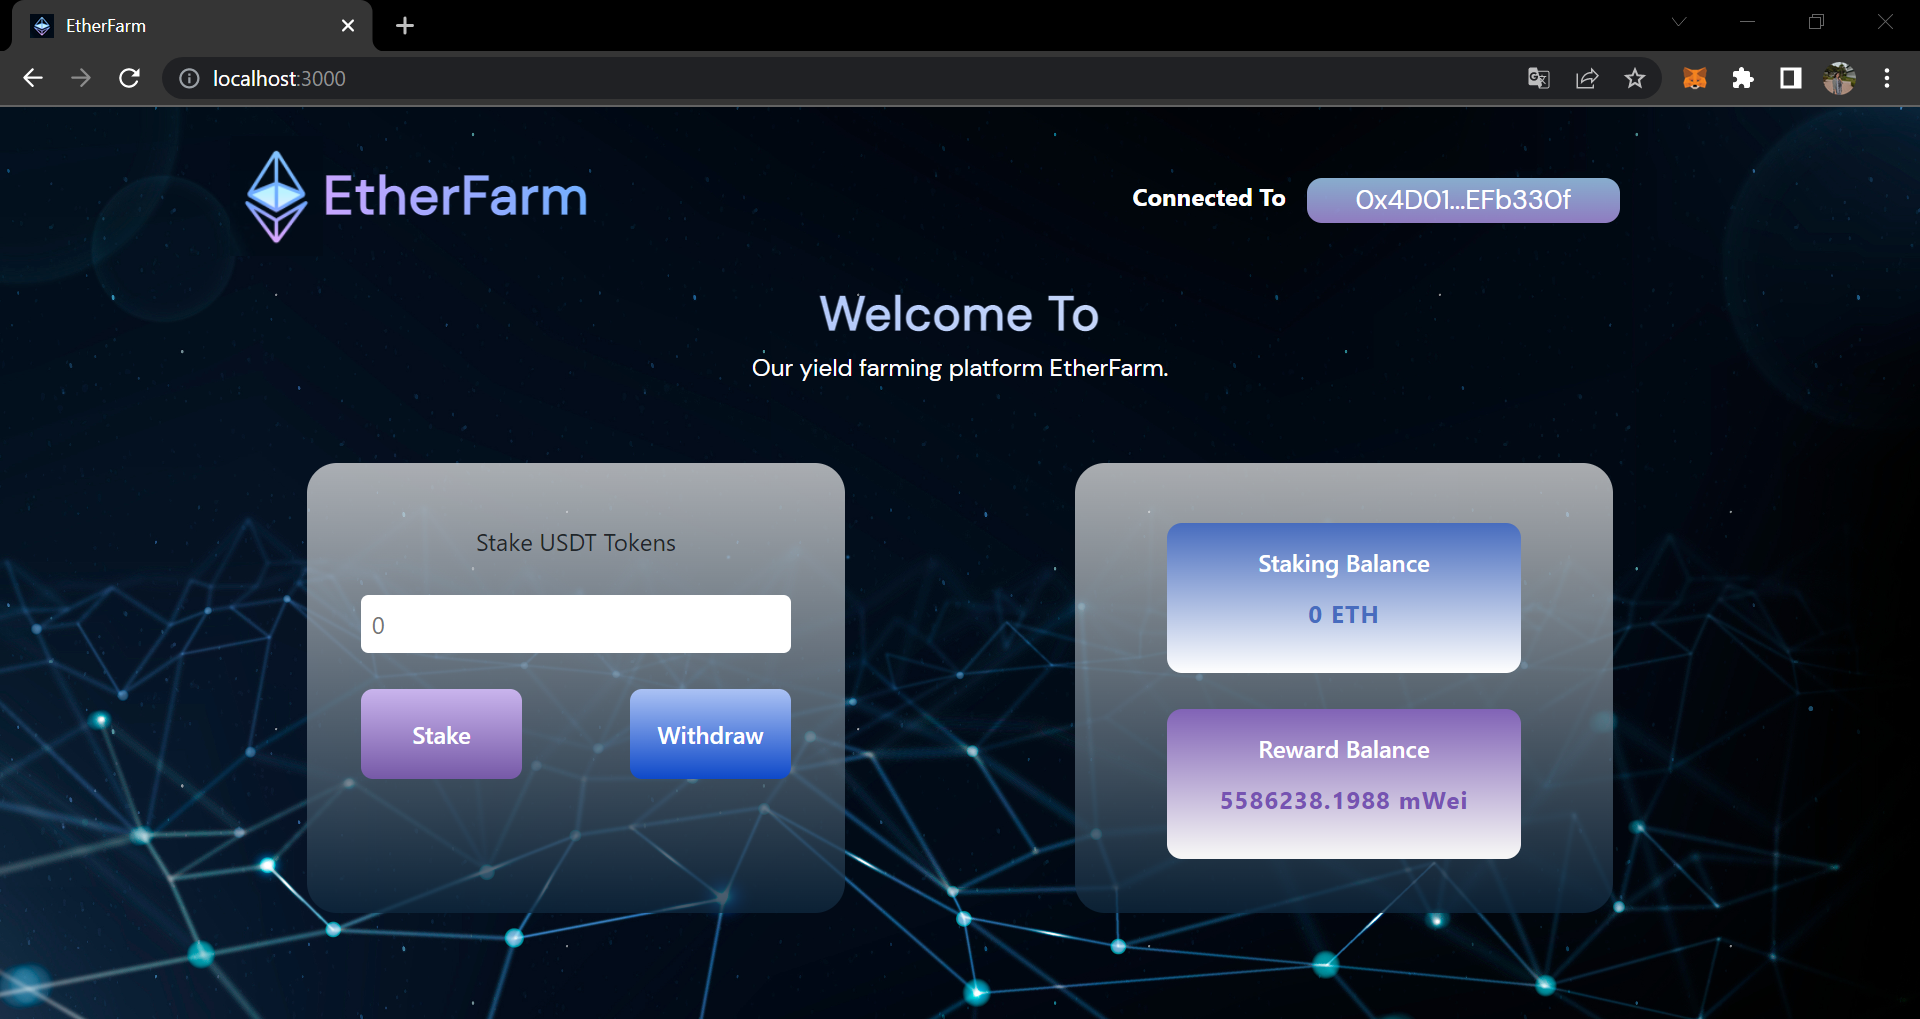
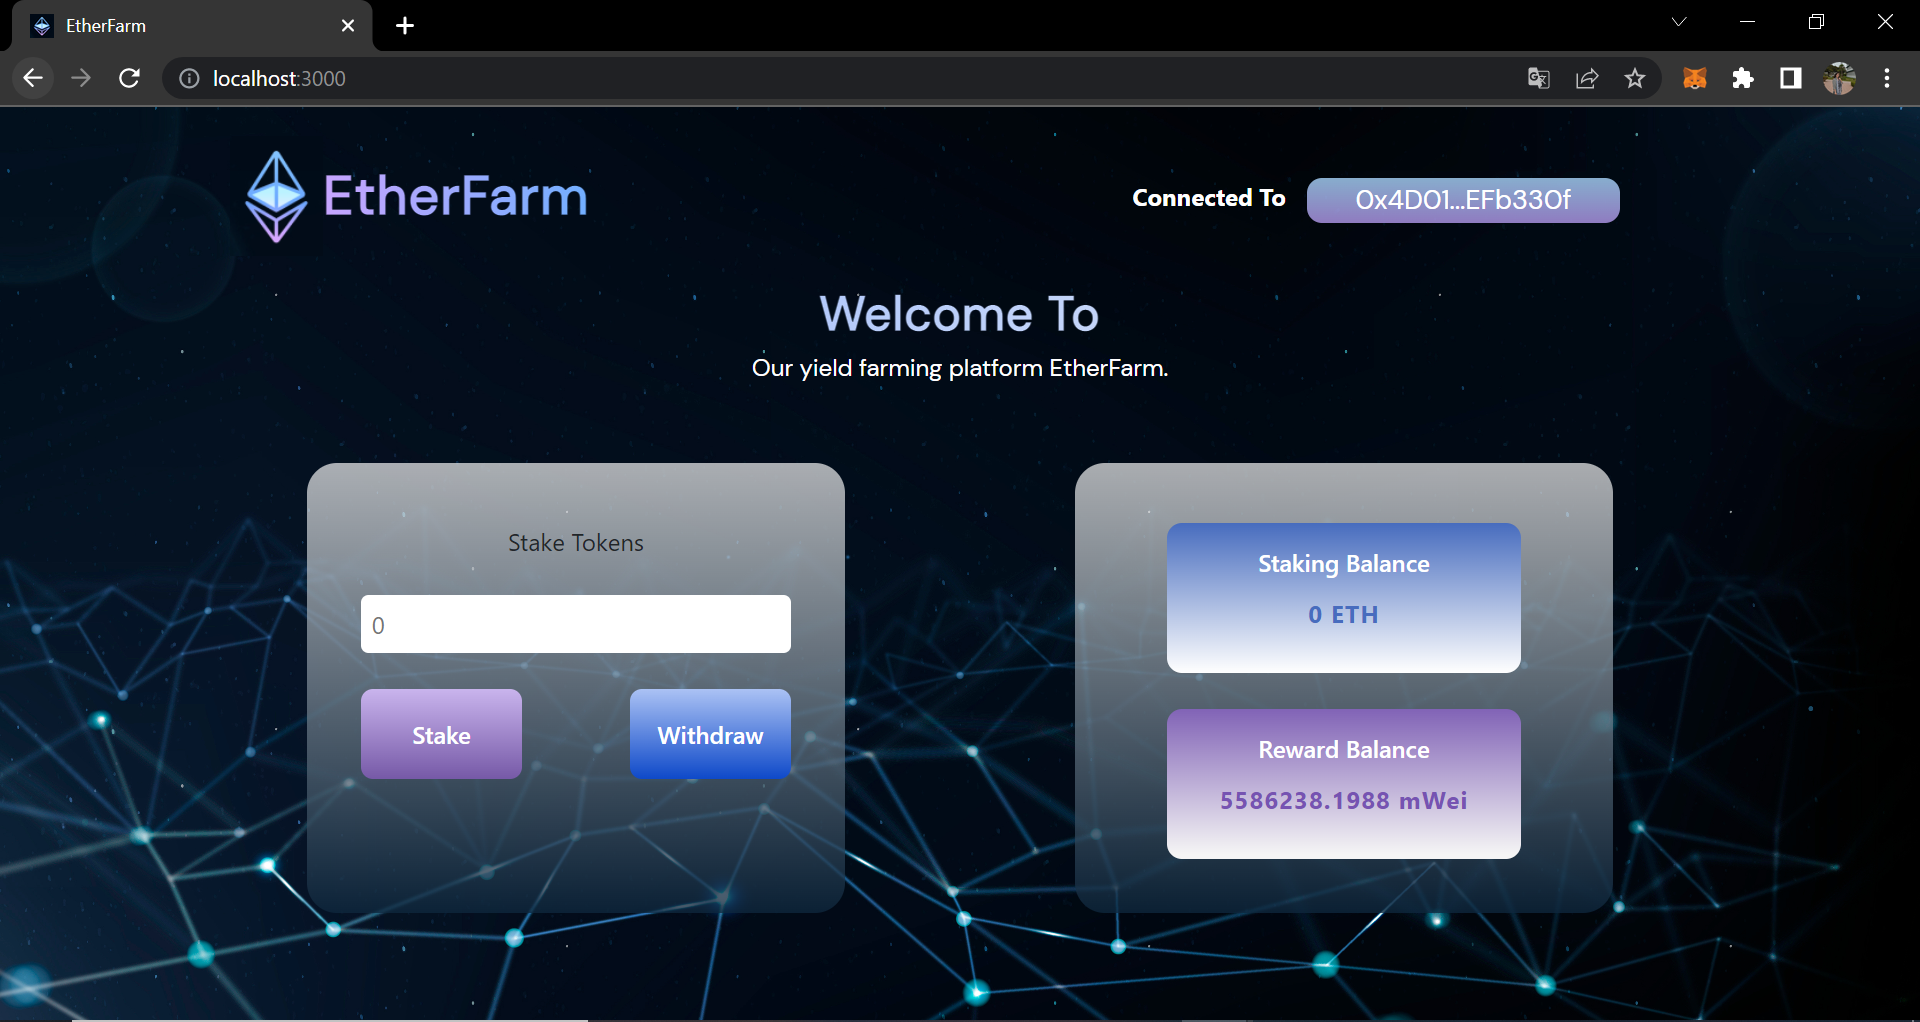
add app capture

diff --git a/src/components/Main.js b/src/components/Main.js
@@ -13,7 +13,7 @@ const Main = (props) => {
 
                 <div className="card card-main">
 
-                    <span >Stake USDT Tokens </span>
+                    <span >Stake Tokens </span>
                     <br />
                     {/* <span>My Balance: {props.balance} </span> */}
                     <input type="number" step="0.01" id='amount' className='input-card' placeholder='0' onChange={(e) => setAmount(e.target.value)} />
